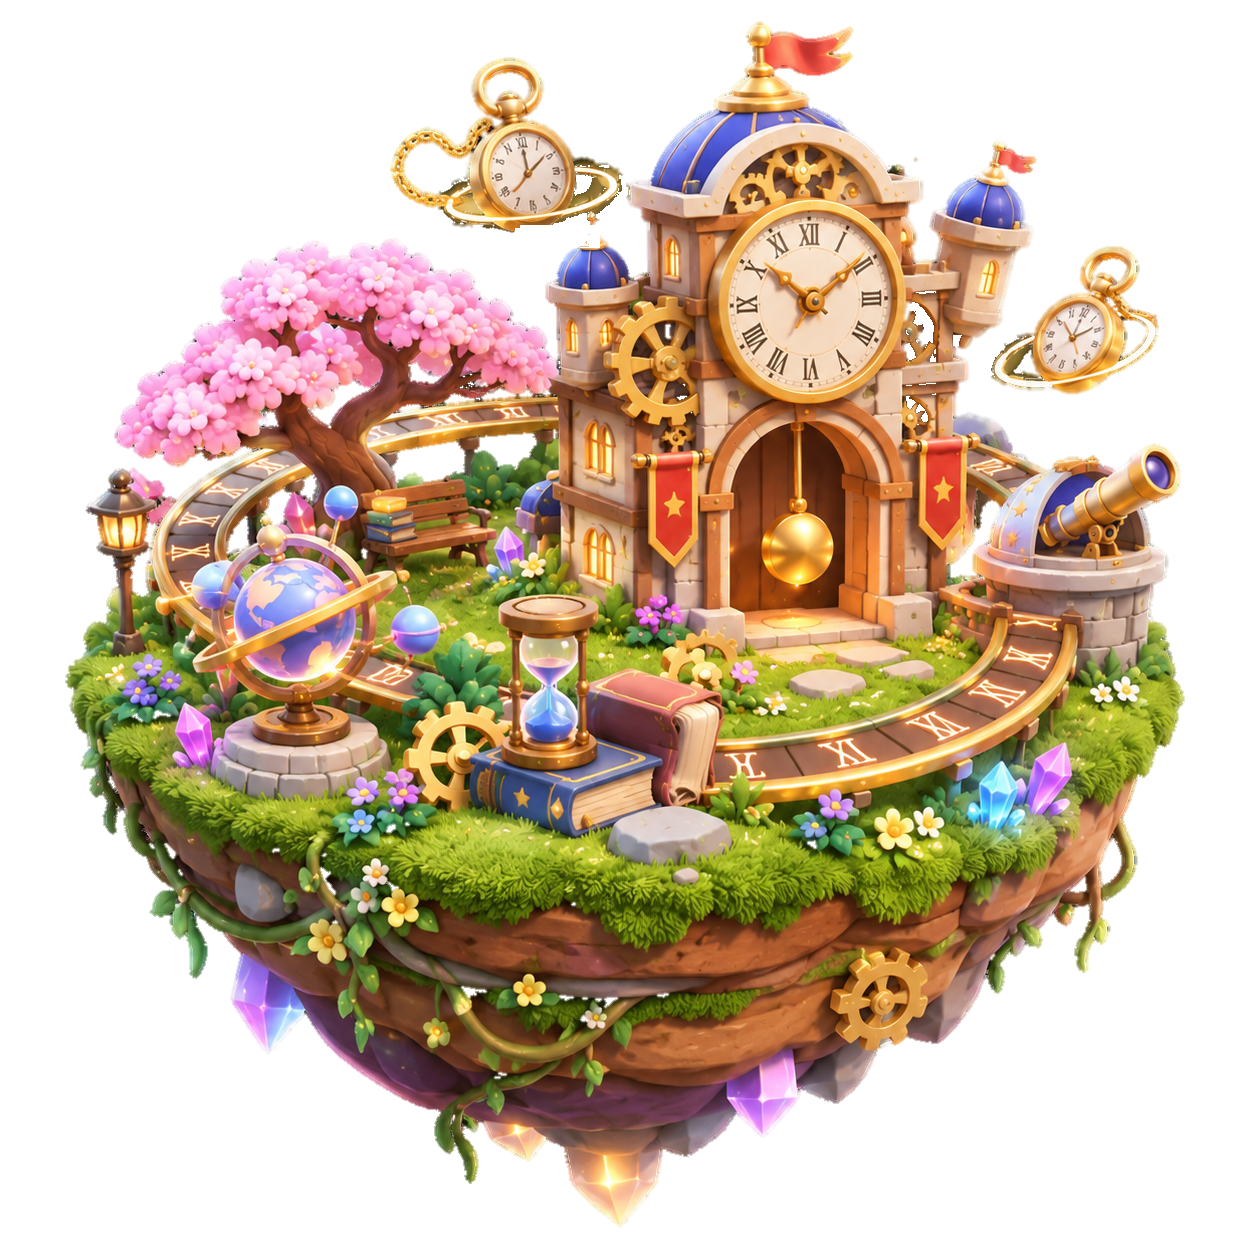
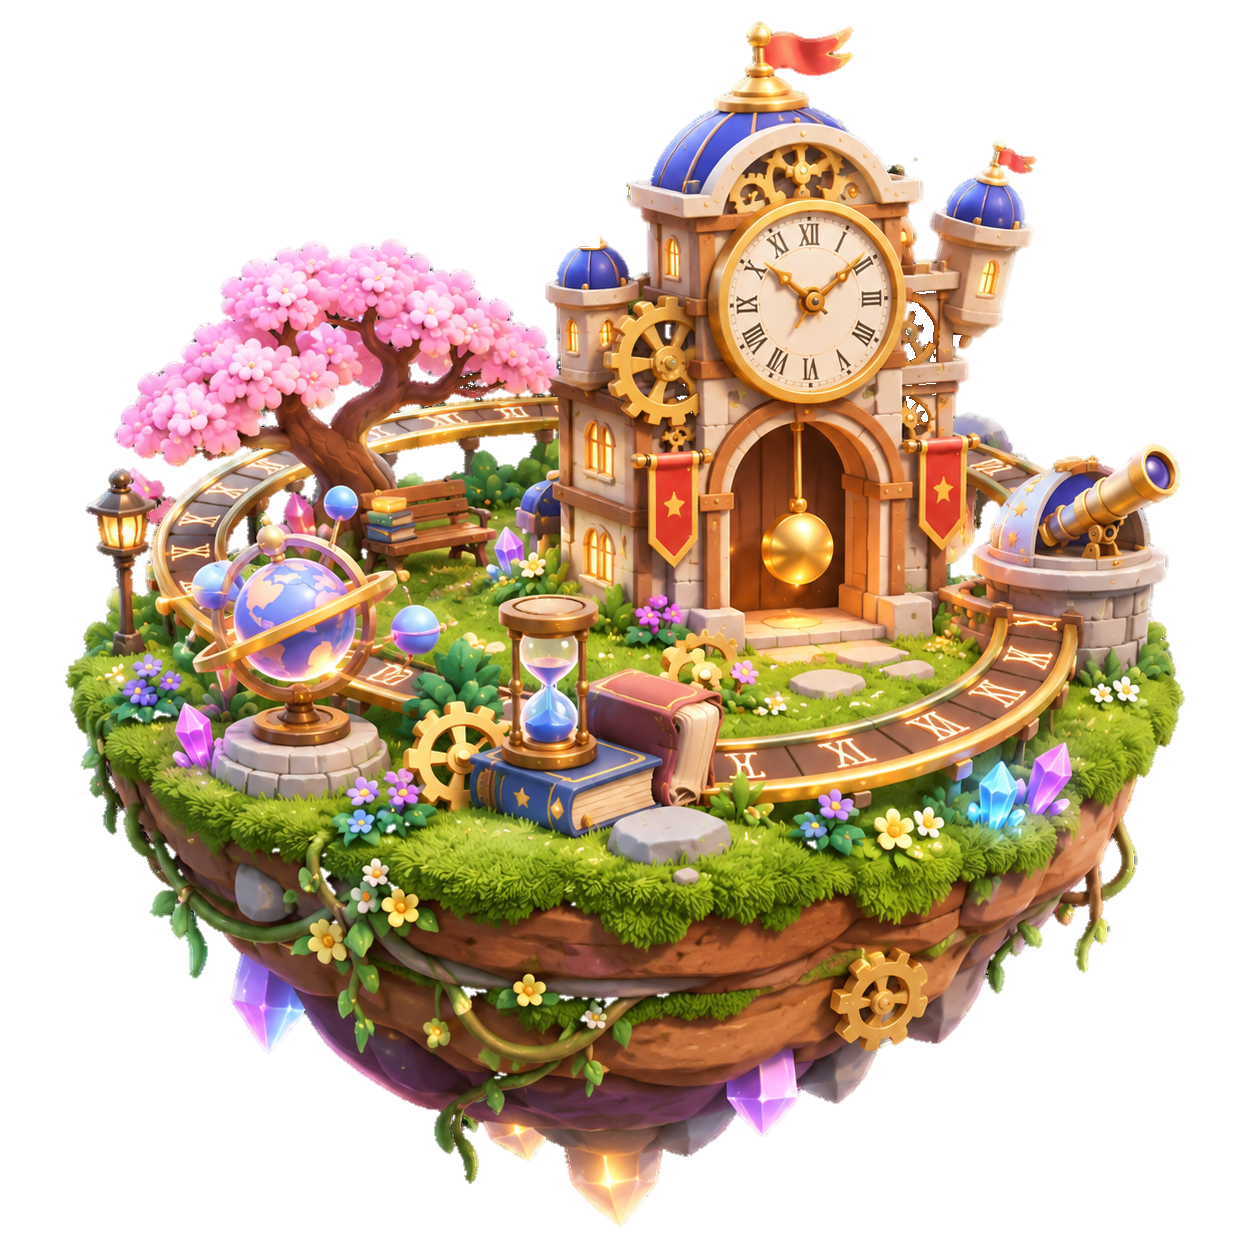
feat(dashboard): separate time oasis floating pocket watches with parallax animation

Changed region(s): [[0.311, 0.0311, 0.4976, 0.1866], [0.7775, 0.1866, 0.933, 0.311]]

diff --git a/src/components/dashboard/planet-diorama.tsx b/src/components/dashboard/planet-diorama.tsx
@@ -62,6 +62,11 @@ export function getPlanetLevelBadges(
 export function PlanetDiorama({ planet, isActive, isVisible, onSelect }: PlanetDioramaProps) {
   const [isHovered, setIsHovered] = useState(false)
   const isInteracting = isActive || isHovered
+  const isTimeOasis =
+    planet.slug === 'toefl_junior' ||
+    planet.slug === 'time' ||
+    planet.slug === 'time_oasis' ||
+    Boolean(planet.image?.includes('time_oasis'))
 
   return (
     <div
@@ -165,6 +170,36 @@ export function PlanetDiorama({ planet, isActive, isVisible, onSelect }: PlanetD
           />
           {/* Subtle 3D Island Contact Shadow */}
           <div className="pointer-events-none absolute -bottom-3 left-1/2 -z-10 h-4 w-3/4 -translate-x-1/2 rounded-full bg-indigo-950/15 blur-md" />
+
+          {/* Standalone Detached 3D Pocket Watches for Time Oasis */}
+          {isTimeOasis && (
+            <>
+              {/* Floating Pocket Watch - Left */}
+              <img
+                src="/assets/planets/time_oasis_watch_left.png"
+                alt=""
+                className="pointer-events-none absolute z-10 animate-[float-watch-left_4.2s_ease-in-out_infinite] drop-shadow-[0_6px_12px_rgba(30,58,138,0.2)] select-none motion-reduce:animate-none"
+                style={{
+                  top: '4.47%',
+                  left: '31.02%',
+                  width: '18.74%',
+                  height: '14.11%',
+                }}
+              />
+              {/* Floating Pocket Watch - Right */}
+              <img
+                src="/assets/planets/time_oasis_watch_right.png"
+                alt=""
+                className="pointer-events-none absolute z-10 animate-[float-watch-right_5s_ease-in-out_1.8s_infinite] drop-shadow-[0_6px_12px_rgba(30,58,138,0.2)] select-none motion-reduce:animate-none"
+                style={{
+                  top: '19.54%',
+                  left: '78.95%',
+                  width: '13.56%',
+                  height: '11.96%',
+                }}
+              />
+            </>
+          )}
         </div>
       </div>
 

diff --git a/src/app/globals.css b/src/app/globals.css
@@ -308,6 +308,26 @@
   }
 }
 
+@keyframes float-watch-left {
+  0%,
+  100% {
+    transform: translateY(0px) rotate(0deg);
+  }
+  50% {
+    transform: translateY(-6px) rotate(-2.5deg);
+  }
+}
+
+@keyframes float-watch-right {
+  0%,
+  100% {
+    transform: translateY(0px) rotate(0deg);
+  }
+  50% {
+    transform: translateY(-7px) rotate(2.5deg);
+  }
+}
+
 @keyframes wing-flap {
   0% {
     transform: scaleX(1);
